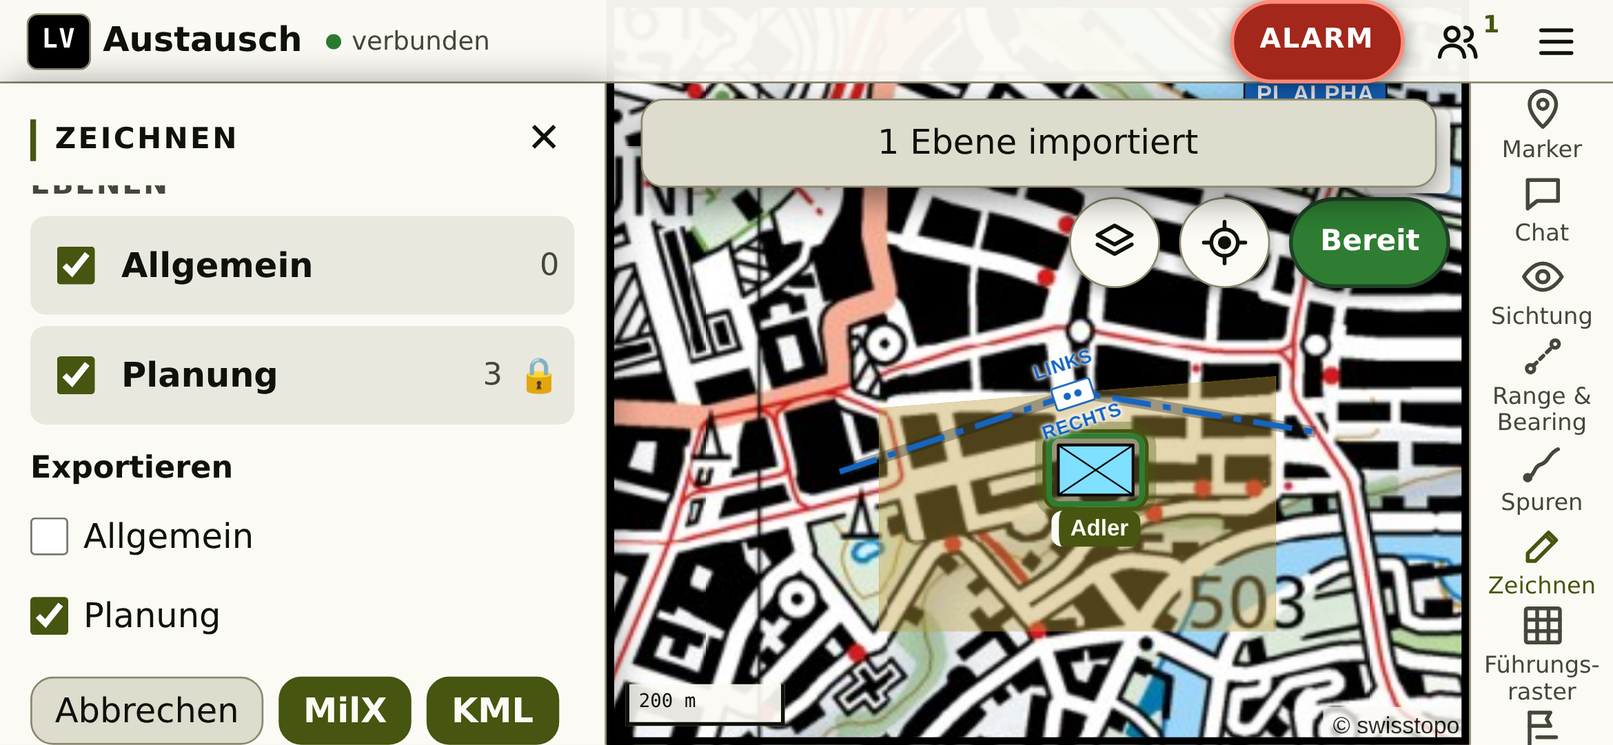
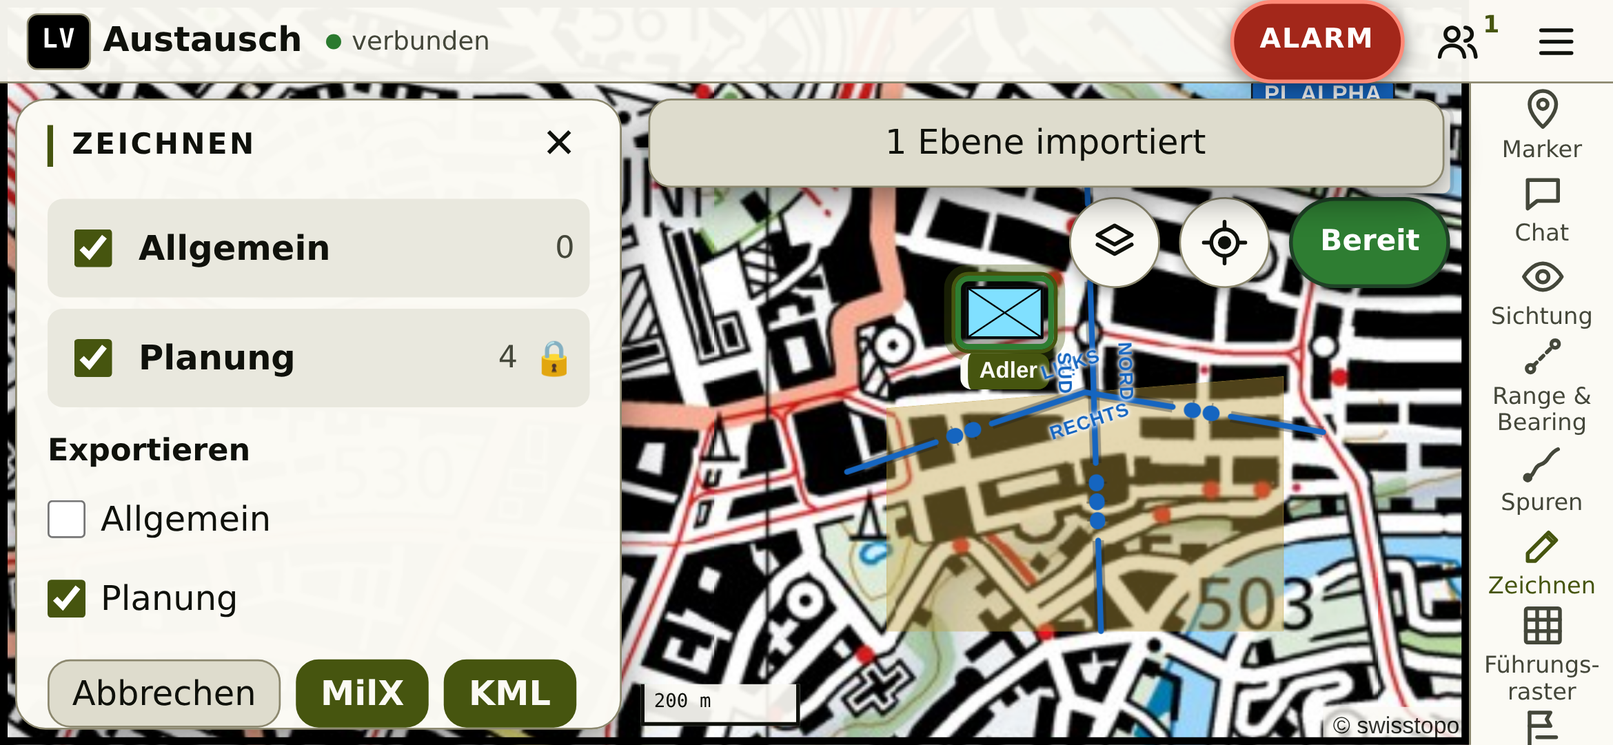
docs: MilX-Nachbesserungen – Entscheide Juan, Spec v8, Testzahlen, Mutationsnachweis, Bilder
README-Entscheidungslog «MilX/KML-Import (01.11.)» und Spec v8 mit Juans
Entscheiden zur Grenzlinie und zu den Ebenen für alle (wörtlich), Export
aus der Whitelist, Punktgrenzen, offene Punkte bereinigt. Testzahlen
(220 / 48 / 3948, E2E 119 in 14 Dateien), Mutationsnachweis 14/14.
Bilder mit erfundenen Daten: v8-grenze-quer, v8-grenze-juan,
v8-ebenen-beobachter, v8-import-* und v8-export neu.

Claude-Session: https://claude.ai/code/session_01Fo5QxxrixuCWEFZHSUx93F

Changed region(s): [[0.0, 0.0916, 0.9047, 1.0], [0.7799, 0.0916, 0.9047, 0.2442], [0.7175, 0.2442, 0.8423, 0.2747]]

diff --git a/docs/spec.md b/docs/spec.md
@@ -766,8 +766,8 @@ Ebenen aus dem Führungssystem (gs-soft MilX) und aus KML übernehmen und wieder
 - **Vorschau:** vor dem Übernehmen je Layer die Zeichen nach Art («3 × Phasenlinie · 4 × Grenze»), nicht abbildbare benannt (Code, Kürzel, Name), vereinfachte Linien gezählt; dann «Importieren». Danach zeigt die Karte das Importierte (neben dem offenen Panel).
 - **Export gleich mit:** jedes Mitglied (wie Ereignisliste, O15), Auswahl der Ebenen (Vorgabe: alle sichtbaren), Knopf «MilX» oder «KML». MilX: alle gewählten Ebenen in einer `.milxlyz`, LV03 wie die Quelle. KML: eine Datei je Ebene (Name = Ebene), mehrere als ZIP.
 - **Zusatzzeichen** (`XE` = «9SCHT…»): Juan: «weiss nicht was es umfasst..»; ein öffentlicher Katalog fehlt (Recherche) → als Linie bzw. Fläche in ruhigem Blaugrau, beschriftet mit `T`, sonst dem Kürzel.
-- **Originalcode bleibt:** jede importierte Zeichnung trägt ihre Symbol-XML unverändert in `milx`; der Export gibt sie zurück, eine spätere echte Darstellung braucht keinen Neuimport.
-- **Ort:** Import/Export unten im Ebenen-Panel (Zeichnen › Ebenen; am Handy unter den Ebenen). Android: Dateiauswahl über `<input type="file">` (Capacitor-Dateiwahl, in der App ohne `accept`, weil Android `.milxly` nicht kennt und sonst alle MilX-Dateien ausblendet), Speichern/Teilen über die bestehende Brücke `LagebildDatei.teile` wie das Raster-PDF. Keine neue APK nötig.
+- **Originalcode bleibt:** jede importierte Zeichnung trägt ihre Symbol-XML unverändert in `milx`, eine spätere echte Darstellung braucht keinen Neuimport. Der Export baut daraus die Symbol-XML aus einer Whitelist neu auf (Code mit 15 erlaubten Zeichen, `Attribute` mit Text, `XM` nur mit `Line` Width/Color und `Fill` Color/Transparency): Kommentare, PIs, fremde Elemente und Attribute fallen weg, denn `milx` kann jedes Mitglied setzen.
+- **Ort:** Import/Export unten im Ebenen-Panel (Zeichnen › Ebenen; am Handy unter den Ebenen) und unter «Karte und Ebenen» (Gruppe «Zeichnen», für alle Rollen und Phasen, siehe Nachbesserungen). Android: Dateiauswahl über `<input type="file">` (Capacitor-Dateiwahl, in der App ohne `accept`, weil Android `.milxly` nicht kennt und sonst alle MilX-Dateien ausblendet), Speichern/Teilen über die bestehende Brücke `LagebildDatei.teile` wie das Raster-PDF. Keine neue APK nötig.
 
 ### Zuordnung (`client/src/features/zeichnen/austausch/milx.ts`)
 | MilX-Code (`?` = Zugehörigkeit) | App | Import | Export eigener Zeichnungen |
@@ -782,7 +782,7 @@ Ebenen aus dem Führungssystem (gs-soft MilX) und aus KML übernehmen und wieder
 | übrige Arten (Linie, Pfeil, Kreis …) ohne `milx` | – | – | fehlen im MilX (Dialog nennt sie), im KML enthalten |
 
 - **Farbe nach Zugehörigkeit** (2. Stelle): Feind (H, S, J, K) rot, neutral grün, unbekannt gelb, sonst (eigene) blau.
-- **Grenze wie im Quell-Tool:** Stufe (APP-6A, z.B. C = ●●) im weissen Kästchen auf der Linienmitte, die beiden Namen je auf einer Seite entlang der Linie, klein in Versalien in Linienfarbe; gilt auch für eigene Grenzen (Eigenschaften: «Name links», «Name rechts», «Stufe»).
+- **Grenze wie im Quell-Tool (Juan, Nachbesserungen):** durchgezogen, mit Stufe alle ~160 px (zoomunabhängig, Bildschirm-px) unterbrochen; in jeder Lücke das Verbandszeichen der Stufe (APP-6A Stelle 12: A Ø, B ●, C ●●, D ●●●, E I, F II, G III, H X …) in Linienfarbe ohne Kästchen, gezeichnet als Geometrie (Punkte Ø 8 px, Striche), Lücke = Zeichen + je 4 px Rand. Ohne Stufe einfach durchgezogen (vorher Strich-Punkt). Die beiden Namen je auf einer Seite entlang der Linie, klein in Versalien in Linienfarbe; nur «rechts» bleibt rechts. Gilt auch für eigene Grenzen (Eigenschaften: «Name links», «Name rechts», «Stufe»).
 - **Flächen ohne Umriss:** neue Strichart `keiner` (nur mit Füllung wählbar, «Ohne»).
 - **KML:** militärische Zeichen über ExtendedData `App6aXmlTxt` (FeatureTypeCode MILSYM) mit derselben Zuordnung; freie Zeichnungen (DRWING) mit `ColorCode`/`CanvasFillColorCode` (rgba) und `WidthQty`; sonst `<Style>` (aabbggrr). Export schreibt beides, dazu `App6aXmlTxt`, wo ein Code bekannt ist; Text als Punkt, Kreis/Rechteck als Polygon.
 - **Rundreise:** Import → Export → Import ergibt dieselben Zeichnungen (MilX und KML, Test). Geänderte Namen und Stufe einer importierten Zeichnung gehen in ihren Originalcode ein, alles andere daran bleibt.
@@ -791,9 +791,10 @@ Ebenen aus dem Führungssystem (gs-soft MilX) und aus KML übernehmen und wieder
 - Datei höchstens 10 MB, auch entpackt (ZIP-Bombe bricht ab); ZIP nur Deflate/Stored, über die native `DecompressionStream`/`CompressionStream` (keine Abhängigkeit).
 - XML per `DOMParser`; Dateien mit DTD (`<!DOCTYPE`/`<!ENTITY`) werden abgelehnt.
 - Nur LV03 (`CoordSystemType` `SwissLv03`); anderes Koordinatensystem → Zeichen nicht abbildbar. Umrechnung mit proj4 (dieselbe LV03-Definition wie die Koordinatenanzeige, hin und zurück < 1 cm).
-- Punkte je Art wie beim Zeichnen (`PUNKTE_JE_ART`): mehr → Douglas-Peucker bis zur Grenze (Vorschau zählt «vereinfacht»), weniger → nicht abbildbar. Schlusspunkt von Ringen fällt weg, Zeichnungen (`G.9.*`) bekommen ihn im Export zurück.
+- Punkte je Art wie beim Zeichnen (`PUNKTE_JE_ART`): mehr → Douglas-Peucker bis zur Grenze (Vorschau zählt «vereinfacht»), weniger → nicht abbildbar. Linien über 50 000 Punkte und Arten mit höchstens zwei Punkten (Text) werden nicht vereinfacht, sondern sind nicht abbildbar; ein KML-`<Point>` nimmt nur das erste Tupel. Schlusspunkt von Ringen fällt weg, Zeichnungen (`G.9.*`) bekommen ihn im Export zurück.
+- Export: Steuerzeichen, die XML 1.0 nicht erlaubt (U+0000–U+0008, U+000B, U+000C, U+000E–U+001F, U+FFFE, U+FFFF), fallen weg. Kaputte ZIP-Daten melden «Datei beschädigt oder kein gültiges ZIP».
 - Was der Vertrag nicht annimmt (Koordinaten ausserhalb, zu lange Symbol-XML > 2000 Zeichen), ist nicht abbildbar.
-- Die Mission muss alles fassen (50 Ebenen, 5000 Zeichnungen, 10 MB Zeichnungsdaten): sonst kein Import, Grund in der Vorschau. Gesendet wird je Layer `ebene.neu {id, name, import: true}`, dann `zeichnung.neu` in Stücken; bricht ein Stück ab, bleibt das Bisherige («Import unvollständig»).
+- Die Mission muss alles fassen (50 Ebenen, 5000 Zeichnungen, 10 MB Zeichnungsdaten): sonst kein Import, Grund in der Vorschau. Gesendet wird je Layer `ebene.neu {id, name, import: true}`, dann `zeichnung.neu` in Stücken; bricht ein Stück ab, bleibt das Bisherige («Import unvollständig»). Teilnehmer und Beobachter lehnt der Server mit «Nur für Leitung und Gruppenführer» ab.
 
 ### Vertrag (`shared/protocol.ts`)
 - `Zeichnung.milx?` (Symbol-XML, ≤ 2000 Zeichen, beginnt mit `<Symbol`), `Zeichnung.stufe?` (`Stufe` A–M), `Stil.strich` + `keiner`.
@@ -801,11 +802,14 @@ Ebenen aus dem Führungssystem (gs-soft MilX) und aus KML übernehmen und wieder
 - `PROTOKOLL_VERSION` bleibt 2: ältere Stände ignorieren die neuen Felder; eine Zeichnung, die ein älterer Stand ändert, verliert `milx`/`stufe`.
 
 ### Offene Punkte
-- **Grenzlinie:** Das Quell-Tool zeichnet Grenzen durchgezogen, die App seit Spec v2 Strich-Punkt. Umstellen ist eine Zeile (`darstellung.ts`), betrifft aber alle Grenzen → Juan fragen.
 - **MilX-Export ungeprüft in MilX:** kein MilX hier. `SourceSystemRef` lässt der Export weg; `MssLibraryVersionTag` wie in der Quelle. Erst ein Import in MilX zeigt, ob das reicht.
-- **Beobachter und Phase AN** sehen das Zeichnen-Panel nicht und können darum nicht exportieren (Entscheid «jedes Mitglied»): bei Bedarf Export zusätzlich in die Wiedergabe (AN) legen.
 - Stiländerungen an importierten `G.9.AP`-Flächen gehen nicht in den MilX-Originalcode (nur Namen und Stufe); KML hat sie.
 - Eigene schwarze Umrisse mit Füllung kommen nach MilX/KML und zurück ohne Umriss an (Regel «schwarz + Füllung = ohne Umriss»).
 - Deckkraft derselben Fläche: aus MilX 0.41, aus KML 0.42 (Quelle rechnet anders); unsichtbar.
-- Rückgängig gibt es für den Import nicht; die Leitung löscht eine falsch importierte Ebene samt Zeichnungen.
-- Bilder (erfundene Daten): `docs/screens/v8-import-vorschau.png`, `v8-import-ebene.png`, `v8-export.png`.
+- Rückgängig gibt es für den Import nicht; die Leitung löscht eine falsch importierte Ebene samt Zeichnungen. Ein Gruppenführer kann eine (halb) importierte Ebene nicht löschen, nur ihre Zeichnungen (Regel «Ebenen löschen nur Leitung» bleibt).
+- Bilder (erfundene Daten): `docs/screens/v8-import-vorschau.png`, `v8-import-ebene.png`, `v8-export.png`, Grenzen mit ●● und ●●● `v8-grenze-quer.png` (851×393) und `v8-grenze-juan.png` (891×411 @3.5, Klein), Beobachter unter «Karte und Ebenen» `v8-ebenen-beobachter.png`.
+- ponytail: Die Verbandszeichen haben feste Grössen (Punkt Ø 8 px), unabhängig von der Strichstärke; bei sehr dicken Grenzen bei Bedarf mitwachsen lassen.
+
+### Nachbesserungen nach dem Gate (01.11., Entscheide Juan)
+- **Grenzlinie.** Juan: «die Linien logik ist gezogen, die darstellung enthält die Verbandzeichen, eine grenzlinie zwischen zügen zeigt das Zugsymbol. (3 punkte) etc. das ist aber dann eine form von gestrichelter linie nicht ein symboly mit hintergrund». Umgesetzt wie oben unter «Grenze wie im Quell-Tool»: Lücken mit dem Verbandszeichen statt Kästchen, ohne Stufe durchgezogen; für importierte und eigene Grenzen (`darstellung.ts`, `geometrie.ts` `unterbrochen`).
+- **Ebenen für alle.** Juan: «Alle Layer sind für alle Sichtbar und ein und ausschaltbar. wenn einer ein LAyer ergänzt ist es automatisch für alle ergänzt. es ist an die mission gekoppelt». Umgesetzt: unter «Karte und Ebenen» die Gruppe «Zeichnen» mit einem Schalter je Ebene der Mission (pro Gerät gemerkt, wie im Zeichnen-Panel) und Import/Export darunter – für alle Rollen in allen Phasen (Feature-Haken `ebenen` und `EbenenZusatz`). Import bleibt Leitung + Gruppenführer, Ebenen anlegen/sperren/löschen unverändert. Neue Ebenen anderer kamen schon per Delta (`ebene`) bei allen an, auch beim Beobachter (E2E bestätigt).

diff --git a/docs/tests.md b/docs/tests.md
@@ -14,9 +14,9 @@ Tabelle: [tests-mutationen.md](tests-mutationen.md). Vorgehen: exakte Textersetz
 Test rot? → Datei wiederherstellen. Dabei geschärft: Chat-Snapshot-Filter für Nicht-Empfänger, Pfadprüfung des
 Client-Verzeichnisses (`..` kodiert, sonst normalisiert die URL), Code-erneuern-Broadcast, labels-Hindernis, rb-Schlüssel.
 
-**Zahlen (31.10.2026):** 483 Tests / 45 Dateien / 4639 Zeilen → **191 Tests / 45 Dateien / 3382 Zeilen**; nach der Taufe-Überarbeitung (31.10.) **194 Tests / 45 Dateien / 3415 Zeilen** (+3: Naht geteilter Kacheln, mehrteilige Gebäude, Selbstüberschneidung); nach Gerätekennung und Rollen (01.11.) **205 Tests / 46 Dateien / 3625 Zeilen** (+11: Reducer-Rollen 6, Gerätenachweis, Wiederbeitritt, Challenges, Migration Spec v7, Rollen live). Nach den Gate-Auflagen Rollen (01.11.) **207 Tests / 46 Dateien / 3674 Zeilen** (+2: Herabstufen auf Beobachter beendet Aufträge, Wiederbeitritt schliesst die alte Verbindung; Tabelle Wiederbeitritt und Meldungs-Sichtbarkeit geschärft). Nach dem Menü (01.11.) **211 Tests / 47 Dateien / 3737 Zeilen** (+4: Token-Regel nach 4005/«beendet», Fähnchen-Ort aus Zielobjekten, Auffächern, Missionen-Abgleich; Aufräumen behält alle Missionen des Geräts). Panels quer (01.11.): Unit-Tests unverändert (**211 / 47**); E2E +1 Layout-Test `e2e/quer-layout.e2e.ts` «Panel: Kopf und ✕ ganz sichtbar, ✕ schliesst» (läuft in `quer` und `quer-gross`) → **117 E2E-Läufe in 13 Dateien** über alle Projekte (Stand nach Merge von main 9dd5c0a, kompletter Lauf grün); Mutationsnachweis 4/4 in [tests-mutationen.md](tests-mutationen.md) (Abschnitt «Panels quer»). Nach MilX/KML (01.11., Spec v8) **220 Tests / 48 Dateien / 3912 Zeilen** (+9: Import-Rechte im Reducer, LV03-Rückweg, Grenze mit Stufe und Seitennamen, MilX lesen, KML lesen = MilX, Punktgrenzen, Rundreise MilX/KML mit geänderten Namen, Codes eigener Zeichnungen, ZIP).
+**Zahlen (31.10.2026):** 483 Tests / 45 Dateien / 4639 Zeilen → **191 Tests / 45 Dateien / 3382 Zeilen**; nach der Taufe-Überarbeitung (31.10.) **194 Tests / 45 Dateien / 3415 Zeilen** (+3: Naht geteilter Kacheln, mehrteilige Gebäude, Selbstüberschneidung); nach Gerätekennung und Rollen (01.11.) **205 Tests / 46 Dateien / 3625 Zeilen** (+11: Reducer-Rollen 6, Gerätenachweis, Wiederbeitritt, Challenges, Migration Spec v7, Rollen live). Nach den Gate-Auflagen Rollen (01.11.) **207 Tests / 46 Dateien / 3674 Zeilen** (+2: Herabstufen auf Beobachter beendet Aufträge, Wiederbeitritt schliesst die alte Verbindung; Tabelle Wiederbeitritt und Meldungs-Sichtbarkeit geschärft). Nach dem Menü (01.11.) **211 Tests / 47 Dateien / 3737 Zeilen** (+4: Token-Regel nach 4005/«beendet», Fähnchen-Ort aus Zielobjekten, Auffächern, Missionen-Abgleich; Aufräumen behält alle Missionen des Geräts). Panels quer (01.11.): Unit-Tests unverändert (**211 / 47**); E2E +1 Layout-Test `e2e/quer-layout.e2e.ts` «Panel: Kopf und ✕ ganz sichtbar, ✕ schliesst» (läuft in `quer` und `quer-gross`) → **117 E2E-Läufe in 13 Dateien** über alle Projekte (Stand nach Merge von main 9dd5c0a, kompletter Lauf grün); Mutationsnachweis 4/4 in [tests-mutationen.md](tests-mutationen.md) (Abschnitt «Panels quer»). Nach MilX/KML (01.11., Spec v8) **220 Tests / 48 Dateien / 3912 Zeilen** (+9: Import-Rechte im Reducer, LV03-Rückweg, Grenze mit Stufe und Seitennamen, MilX lesen, KML lesen = MilX, Punktgrenzen, Rundreise MilX/KML mit geänderten Namen, Codes eigener Zeichnungen, ZIP). Nach den MilX-Nachbesserungen (01.11., Gate + Juans Entscheide) **220 Tests / 48 Dateien / 3948 Zeilen** (keine neuen `it`s, bestehende geschärft: Text mit 2 Punkten (Endlosschleife), Linien über 50 000 Punkten, KML-Point erstes Tupel, Export aus der Whitelist, Steuerzeichen, Grenze nur mit T1, kaputtes ZIP, Grenze durchgezogen mit Verbandszeichen in den Lücken, Import-Meldung im Reducer); Mutationen 14/14 rot in [tests-mutationen.md](tests-mutationen.md) «Nachbesserungen nach dem Gate».
 
-**E2E (Playwright, 01.11.2026, nach den Nachbesserungen Menü):** 115 Läufe in drei Projekten (quer, quer-gross, hoch), alle grün; `menu.e2e.ts` hat 5 Tests (+2 neu: «App-Start immer im Menü», «Missionswechsel setzt die Features zurück»; «Token-Regel» deckt jetzt auch ein unterbrochenes Warten ab, «Beitreten mit dem Code» hält die Antwort per `page.route` zurück). Seit dem App-Start im Menü gehen alle E2E, die per `goto('/')` oder `reload()` in eine Mission wollen, über `indieMission()` (`e2e/hilfen.ts`). Unit-Tests unverändert (211 / 47 Dateien). Mutationen: [tests-mutationen.md](tests-mutationen.md) «Menü».
+**E2E (Playwright, 01.11.2026, nach den Nachbesserungen Menü):** 115 Läufe in drei Projekten (quer, quer-gross, hoch), alle grün; `menu.e2e.ts` hat 5 Tests (+2 neu: «App-Start immer im Menü», «Missionswechsel setzt die Features zurück»; «Token-Regel» deckt jetzt auch ein unterbrochenes Warten ab, «Beitreten mit dem Code» hält die Antwort per `page.route` zurück). Seit dem App-Start im Menü gehen alle E2E, die per `goto('/')` oder `reload()` in eine Mission wollen, über `indieMission()` (`e2e/hilfen.ts`). Unit-Tests unverändert (211 / 47 Dateien). Mutationen: [tests-mutationen.md](tests-mutationen.md) «Menü». Nach den MilX-Nachbesserungen (01.11.): `austausch.e2e.ts` +1 «Beobachter auf Juans Handy» (891×411 @3.5, Klein: Ebenen der Mission unter «Karte und Ebenen» schalten, neue Ebene der Leitung erscheint per Delta, KML-Export, kein Import) → **119 E2E-Läufe in 14 Dateien** über alle Projekte, kompletter Lauf grün (`PW_PORT=8911`; ein erster Lauf parallel zu Vitest hatte `offline.e2e.ts` «Rechteck aufziehen …» rot – Doppelklick-Zoom unter Last, allein und im zweiten kompletten Lauf grün).
 
 ## Was wo getestet wird und warum
 
@@ -29,7 +29,7 @@ Client-Verzeichnisses (`..` kodiert, sonst normalisiert die URL), Code-erneuern-
 | Server Vertrag/Daten | zeichnen, taufe, raster | 11 | Eigene Refinements des Vertrags (Punktzahl je Art, radiusM, Taufring ≥ 4, stoss < 360, Rasterausdehnung, 100 je Nachricht), Vorgabelisten ohne NATO-Wörter, Grössenbudgets je Lage, Snapshot/Export der Einträge. |
 | Client lib | coords, coords.parse, webUpdate, sonne, labels, appVersion, umgebung, speicher, missionen | 34 | Koordinaten-Parsing aller sechs Formate gegen Referenzpunkte und Roundtrip; LV95/MGRS-Referenz, LV03-Rückweg (MilX), Promille, Sendelogik, Frische; Live-Update-Siegel (Signatur, Downgrade, SHA-256, fremder Schlüssel, nur https, nie ohne Antippen aktivieren); fester Server der App; Aufräumen nur Schlüssel verlassener Lagen; Menü: Token-Regel nach Wiederbeitritt (4005) und «beendet» (nie mit dem verworfenen Token verbinden), Fähnchen-Ort aus Zielobjekten, Auffächern ohne Überlappung in der freien Karte. |
 | Client raster/offline | druck, beschriftung, kacheln, laden | 21 | PDF-Raster (runder Massstab, Blattgeometrie umkehrbar, Felder ohne Überlappung, Kachelplan trifft Rahmenecke, gültige xref), Raster-Köpfe auf der Karte; Offline-Gebiete (Zoomgrenzen, Kachelzahl, URL↔Kachel, Referenzzählung beim Löschen, 60-Tage-Ablauf), Lader (einmal je Kachel, Wiederaufnahme, Netz weg, 404/503, Drossel). |
-| Client features | zeichnen (5), taufe (3), bloodhound, chat, sichtung, leitung, spuren, marker, wiedergabe (3), rangebearing, status, alarm, uiSkala | 77 | MilX/KML (Zuordnung, Farben $AABBGGRR/rgba/aabbggrr, LV03, Zusatzzeichen, nicht abbildbar, DTD abgelehnt, Punktgrenzen, Rundreise, Codes eigener Zeichnungen, ZIP mit CRC und Bombengrenze), Grenze (Stufe, Namen beidseits, nie kopfüber), taktische Zeichen (Pfeilkopf-Regression 30.10., Sperre, Räume), Geometrie-Randfälle, Undo/Redo inkl. Ersteller und Stückelung unter MAX_NACHRICHT, Vektorkachel-Geometrie über Kachelgrenzen (auch die von MapLibre geteilten z15/z16-Kacheln, Regression «schräge Fassade»), Gebäudeteile vereinen, Selbstüberschneidung gezeichneter Flächen, Fassadenfarben, Tempo-Glättung, Chat-Kanäle/Ungelesen, SALUTE-Chips→Vertrag, Dateiname ohne Pfad, Spuren, Ereignisliste nur LV mit Bloodhound-Sichtbarkeit und CSV-Formel-Schutz, Wiedergabe-Zeitachse, PDF-Gerüst, R&B-Persistenz, Kontrastfarbe, UI-Skalierung. |
+| Client features | zeichnen (5), taufe (3), bloodhound, chat, sichtung, leitung, spuren, marker, wiedergabe (3), rangebearing, status, alarm, uiSkala | 77 | MilX/KML (Zuordnung, Farben $AABBGGRR/rgba/aabbggrr, LV03, Zusatzzeichen, nicht abbildbar, DTD abgelehnt, Punktgrenzen inkl. Endlosschleife und 50 000, Rundreise, Export aus der Whitelist ohne Steuerzeichen, Codes eigener Zeichnungen, ZIP mit CRC, Bombengrenze und deutscher Meldung), Grenze (durchgezogen, Lücken mit Verbandszeichen, Namen beidseits auch nur rechts, nie kopfüber), taktische Zeichen (Pfeilkopf-Regression 30.10., Sperre, Räume), Geometrie-Randfälle, Undo/Redo inkl. Ersteller und Stückelung unter MAX_NACHRICHT, Vektorkachel-Geometrie über Kachelgrenzen (auch die von MapLibre geteilten z15/z16-Kacheln, Regression «schräge Fassade»), Gebäudeteile vereinen, Selbstüberschneidung gezeichneter Flächen, Fassadenfarben, Tempo-Glättung, Chat-Kanäle/Ungelesen, SALUTE-Chips→Vertrag, Dateiname ohne Pfad, Spuren, Ereignisliste nur LV mit Bloodhound-Sichtbarkeit und CSV-Formel-Schutz, Wiedergabe-Zeitachse, PDF-Gerüst, R&B-Persistenz, Kontrastfarbe, UI-Skalierung. |
 
 ## Gestrichen
 

diff --git a/docs/tests-mutationen.md b/docs/tests-mutationen.md
@@ -1,7 +1,7 @@
 # Mutationsnachweis der Unit-Tests
 
 Je Zeile: eine gezielte Änderung am Produktivcode (Bedingung umgedreht, Prüfung entfernt, Grenzwert verschoben), der danach rote Test, Mutation zurückgenommen.
-Stand 2026-11-01: 317 von 318 Mutationen rot (37 aus Gerätekennung und Rollen, 10 aus den Gate-Auflagen Rollen, 17 aus dem Menü, 8 E2E-Mutationen aus den Nachbesserungen Menü, 4 aus Panels quer, 28 aus MilX/KML – davon eine bewusst grün, siehe dort); Stand 2026-10-31: 214 von 214 Mutationen rot (davon 7 aus der Taufe-Überarbeitung 31.10., von Hand). Erzeugt mit einem Runner-Skript (exakte Textersetzung, Testdatei laufen lassen, Datei wiederherstellen).
+Stand 2026-11-01: 331 von 332 Mutationen rot (37 aus Gerätekennung und Rollen, 10 aus den Gate-Auflagen Rollen, 17 aus dem Menü, 8 E2E-Mutationen aus den Nachbesserungen Menü, 4 aus Panels quer, 28 aus MilX/KML – davon eine bewusst grün, siehe dort –, 14 aus den MilX-Nachbesserungen nach dem Gate, eine davon «hängt»); Stand 2026-10-31: 214 von 214 Mutationen rot (davon 7 aus der Taufe-Überarbeitung 31.10., von Hand). Erzeugt mit einem Runner-Skript (exakte Textersetzung, Testdatei laufen lassen, Datei wiederherstellen).
 
 ## client/src/features/alarm/logik.test.ts
 
@@ -176,7 +176,7 @@ Stand 2026-11-01: 317 von 318 Mutationen rot (37 aus Gerätekennung und Rollen, 
 
 | Produktivcode | Mutation | roter Test | Ergebnis |
 |---|---|---|---|
-| `client/src/features/zeichnen/darstellung.ts:101` | `features.push(linie(ps, { ...basis, strich: 'strichpunkt' }));` → `features.push(linie(ps, { ...basis, stri` | Linienarten | rot |
+| `client/src/features/zeichnen/darstellung.ts` (Grenze) | `const voll: Props = { ...basis, strich: 'voll' };` → `strich: 'gestrichelt'` (seit 01.11. durchgezogen statt Strich-Punkt) | Linienarten (Grenze ohne Stufe durchgezogen) | rot |
 | `client/src/features/zeichnen/darstellung.ts:87` | `pfeil(achse(), l, 0.45 * l)` → `pfeil(achse(), l, 0)` | Spitze am letzten Punkt | rot |
 | `client/src/features/zeichnen/darstellung.ts:129` | `data.set([r, g, b, 200], i);` → `data.set([r, g, b, 255], i);` | Räume | rot |
 | `client/src/features/zeichnen/logik.ts:50` | `if (teil.farbe && s.fuellung === s.farbe) x.fuellung = teil.farbe;` → `if (false) x.fuellung = teil.farbe;` | Stil ändern | rot |
@@ -570,8 +570,8 @@ Ohne Test (kein Verhalten, das klein prüfbar ist, Projektregel «kein Test-Bloa
 | `austausch/kml.ts` (`vonKml`) | `aabbggrr` → als `aarrggbb` gelesen | KML = MilX (Linie Rot) | rot |
 | `austausch/milx.ts` (`passe`) | Vereinfachen aus (`if (true) return`) | Punktgrenzen | rot |
 | `austausch/milx.ts` (`ebeneAus`) | Vertragsprüfung `if (false) nicht.push` | Punktgrenzen (Koordinate ausserhalb) | rot |
-| `austausch/milx.ts` (`symbolExport`) | immer `z.milx` (Änderungen nicht eingesetzt) | Rundreise | rot |
-| `austausch/milx.ts` (`angepasst`) | Stufe nicht in den Code (`if (false) s.setAttribute`) | Rundreise | rot |
+| `austausch/milx.ts` (`symbolExport`) | unverändertes `z.milx` durchreichen (`if (!namen.length && aus.stufe === z.stufe) return z.milx!`, seit 01.11. Whitelist) | Rundreise (Kommentar, PI, fremdes Element bleiben) | rot |
+| `austausch/milx.ts` (`symbolExport`) | Stufe nicht in den Code (`if (aus.stufe !== z.stufe) code =` → `if (false) code =`) | Rundreise | rot |
 | `austausch/milx.ts` (`symbolFuer`) | `GFGPGLB----${stufe}---` → `GFGPGLB--------` | eigene Zeichnungen | rot |
 | `austausch/milx.ts` (`zuDollar`) | `$AABBGGRR` → `$AARRGGBB` | eigene Zeichnungen | rot |
 | `austausch/milx.ts` (`symbolFuer`) | `default: return null` → ein Code | eigene Zeichnungen (ohne Code fehlt) | rot |
@@ -580,9 +580,32 @@ Ohne Test (kein Verhalten, das klein prüfbar ist, Projektregel «kein Test-Bloa
 | `austausch/zip.ts` (`entpackeEine`) | Datenbeginn ohne Extrafeld-Länge des lokalen Kopfs | – | **grün**: weder eigene ZIPs noch Juans Beispiel haben ein Extrafeld. Bewusst kein Test (bräuchte ein fremdes ZIP als Fixture); die Länge wird gelesen, weil andere Packer (z.B. mit Zeitstempel-Feld) eines schreiben. |
 | `zeichnen/darstellung.ts` (Grenze) | Namen links/rechts vertauscht | Darstellung: Grenze | rot |
 | `zeichnen/geometrie.ts` (`mitteQuer`) | Schrift nicht aufgerichtet (`drehung: w`) | Darstellung: Grenze | rot |
-| `zeichnen/darstellung.ts` (`STUFE`) | C `●●` → `●` | Darstellung: Grenze | rot |
+| `zeichnen/darstellung.ts` (`STUFE`) | C `●●` → `●` | Darstellung: Grenze («6 Punkte erwartet, 3») | rot |
 
 Ohne Unit-Test (Oberfläche, E2E `e2e/austausch.e2e.ts`): Vorschau, Sperre der Leitungs-Ebene in der Liste, Beschriftungen auf der Karte, Download KML/MilX mit unverändertem Originalcode. Ohne Test: Fit auf das Importierte neben dem Panel, Knöpfe ins Bild scrollen, `accept` nur im Browser.
+
+### Nachbesserungen nach dem Gate (01.11.: R1, O1–O4, Nits, Juans Entscheide Grenzlinie und Ebenen für alle)
+
+Unit-Tests erweitert statt neu (220 Tests bleiben): «zu viele Punkte …», «Rundreise …», «MilX lesen», «ZIP», «Darstellung: Linienarten», «Darstellung: Grenze», «rechte: Import». E2E +1 in `e2e/austausch.e2e.ts` («Beobachter auf Juans Handy …», 891×411 @3.5, Klein). Runner wie oben (Unit: `timeout 40 npx vitest run <datei>`; E2E: `PW_PORT=8911 npx playwright test e2e/austausch.e2e.ts --project quer -g Beobachter`). 14 von 14 rot, dazu drei Zeilen oben neu belegt (Grenze durchgezogen, `symbolExport` zweimal, `STUFE`).
+
+| Produktivcode | Mutation | roter Test (erste Meldung) | Ergebnis |
+|---|---|---|---|
+| `austausch/milx.ts` (`passe`) | `if (max < 3 \|\| ps.length > MAX_PUNKTE_DATEI)` → `if (ps.length > MAX_PUNKTE_DATEI)` (R1) | «zu viele Punkte …»: Text mit 2 Punkten, Douglas-Peucker läuft endlos | **hängt** (Abbruch nach 40 s) = rot |
+| `austausch/milx.ts` (`passe`) | `\|\| ps.length > MAX_PUNKTE_DATEI` entfernt (O4) | «zu viele Punkte …»: `nicht` ohne «Linie mit 50001 Punkt(en)» | rot |
+| `austausch/kml.ts` (`placemark`) | `.slice(0, art === 'text' ? 1 : undefined)` entfernt | «zu viele Punkte …»: Point «Y» fehlt | rot |
+| `austausch/milx.ts` (`esc`) | Filter der Steuerzeichen entfernt (O2) | Rundreise: MilX enthält U+0001 | rot |
+| `austausch/milx.ts` (`symbolExport`) | `Line`/`Fill` ungefiltert serialisiert (O3) | Rundreise: `Dash="1"` bleibt | rot |
+| `austausch/milx.ts` (`ausSymbol`) | `grenzBezeichnung(t('T'), t('T1'))` → `[t('T'), t('T1')].filter(Boolean).join(' \| ')` | MilX lesen: `['RECHTS', '']` statt `['', 'RECHTS']` | rot |
+| `zeichnen/darstellung.ts` (`grenzNamen`) | am ersten «\|» → wieder `split(' \| ')` | Darstellung: Grenze (nur rechts landet links) | rot |
+| `austausch/zip.ts` (`entpackeEine`) | `\|\| e instanceof TypeError` entfernt | ZIP: Meldung leer statt «Datei beschädigt oder kein gültiges ZIP» | rot |
+| `zeichnen/darstellung.ts` (Grenze) | Lücke `(breite + 8 + s.breite)` → `(breite + s.breite)` | Darstellung: Grenze (Punkt zu nah am Linienende) | rot |
+| `zeichnen/darstellung.ts` (`PX`) | `verband: 160` → `250` | Darstellung: Grenze (3 statt 4 Stücke) | rot |
+| `zeichnen/darstellung.ts` (Grenze) | Punkte quer um 3 px versetzt | Darstellung: Grenze (Punkt nicht auf der Linie) | rot |
+| `shared/regeln/zeichnen.ts` (`ebene.neu`) | Meldung beim Import → wieder «Nur für die Leitung» | rechte: Import | rot |
+| `client/src/features/zeichnen/index.ts` | `ebenen:` → `ebenen2:` (keine Schalter unter «Karte und Ebenen») | E2E Beobachter: Schalter «Allgemein» fehlt | rot |
+| `client/src/components/EbenenListe.svelte` | `{#if f.EbenenZusatz}<f.EbenenZusatz />{/if}` entfernt | E2E Beobachter: «Exportieren …» fehlt | rot |
+
+Ohne Test: Lazy-Loading des PDF-Moduls (O1, belegt durch den Build ohne `INEFFECTIVE_DYNAMIC_IMPORT`), Kommentar in `importiere`, `.kmz` in der Meldung, Bildvergleich der Verbandszeichen (Unit-Test prüft Lücken, Lage und Anzahl; Aussehen per Bild `v8-grenze-*.png`).
 ## Panels quer (01.11., Juan: «das kreuz oben rechts funktioniert in 6 von 10 fällen nicht»)
 
 E2E `e2e/quer-layout.e2e.ts` «Panel: Kopf und ✕ ganz sichtbar, ✕ schliesst» (@layout; Projekt `quer` mit 851×393 und Juans

diff --git a/README.md b/README.md
@@ -111,5 +111,5 @@ Tests, die bewusst Hochformat, Tablet oder Desktop prüfen, setzen ihren Kontext
 | Menü-Layout V4 (01.11.) | Vier Prototypen quer (Branch `menu-layout`), Juan wählt **V4 «Karte als Menü»**: Menüspalte links, Panel rechts, Missionen als Fähnchen auf der Karte. Ort des Fähnchens: «dort wo das Zielobjekt ist» → Mitte aller Zielobjekte, ohne Zielobjekt letzter Ausschnitt des Geräts; nahe Fähnchen auffächern; alle Missionen gleich stark; Start mit allen Fähnchen im Bild. Gerätekennung/Rollen gehen zusammen mit dem Menü live (ein Update für alle Geräte). Details Spec v7 «Menü-Layout V4». |
 | Gate Rollen (01.11.) | Review-Gate `geraet-rollen`: APPROVE mit Auflagen. Juan: Wiederbeitritt behält die Rolle (Code gilt nur beim ersten Beitritt, sonst hebelt verlassen+neu beitreten jede Herabstufung aus); GF-Code als Generalschlüssel für Gruppen bewusst so festgehalten (Bedienschutz, entfällt mit dezentralen Missionen). Ohne Rückfrage behoben: alte Verbindung nach Wiederbeitritt schliessen, Aufträge enden beim Herabstufen auf Beobachter, Auftraggeber sieht Auftrags-Meldungen. |
 | App-Start (01.11.) | Review-Gate Menü, Frage an Juan: Start mit offener Mission direkt in die Karte oder ins Menü? Juan: «Immer ins Menü». → Die App startet (Neustart, Neuladen, Live-Update) immer im Menü mit allen Fähnchen; die offene Mission verbindet sofort im Hintergrund (Verbindung und Position laufen), in die Karte geht es mit «Zurück zur Mission». Ersetzt «Ist eine Mission offen, geht die App direkt hinein» aus Spec v7. |
-| MilX/KML-Import (01.11.) | Formate: «Alle drei» (.milxlyz, .milxly, .kml; KML-Ebene heisst wie die Datei). Rechte: «Leitung + Gruppenführer» – je Layer eine neue Ebene, die der Leitung gesperrt, die eines Gruppenführers offen; Vorschau mit Anzahl je Art und nicht abbildbaren Zeichen, dann «Importieren». Schweizer Zusatzzeichen (XE «9SCHT…»), Juan: «weiss nicht was es umfasst..» → Linie/Fläche in ruhiger Farbe mit Kürzel, Originalcode bleibt erhalten (kein öffentlicher Katalog, `docs/recherche/milx.md`). Export: «Gleich mit» – .milxlyz (LV03, Originalcode) und KML, für alle Mitglieder. Nachtrag nach Juans Foto aus dem Quell-Tool: Grenze mit Stufe im Kästchen und beiden Namen beidseits der Linie, Flächen ohne Umriss (Spec v8) |
+| MilX/KML-Import (01.11.) | Formate: «Alle drei» (.milxlyz, .milxly, .kml; KML-Ebene heisst wie die Datei). Rechte: «Leitung + Gruppenführer» – je Layer eine neue Ebene, die der Leitung gesperrt, die eines Gruppenführers offen; Vorschau mit Anzahl je Art und nicht abbildbaren Zeichen, dann «Importieren». Schweizer Zusatzzeichen (XE «9SCHT…»), Juan: «weiss nicht was es umfasst..» → Linie/Fläche in ruhiger Farbe mit Kürzel, Originalcode bleibt erhalten (kein öffentlicher Katalog, `docs/recherche/milx.md`). Export: «Gleich mit» – .milxlyz (LV03, Originalcode) und KML, für alle Mitglieder. Nachtrag nach Juans Foto aus dem Quell-Tool: Grenze mit Stufe im Kästchen und beiden Namen beidseits der Linie, Flächen ohne Umriss (Spec v8). Nach dem Gate: Grenzlinie, Juan: «die Linien logik ist gezogen, die darstellung enthält die Verbandzeichen, eine grenzlinie zwischen zügen zeigt das Zugsymbol. (3 punkte) etc. das ist aber dann eine form von gestrichelter linie nicht ein symboly mit hintergrund» → durchgezogen, in regelmässigen Abständen unterbrochen, in jeder Lücke das Verbandszeichen der Stufe in Linienfarbe ohne Kästchen, ohne Stufe einfach durchgezogen, Namen beidseits; gilt für alle Grenzen. Ebenen, Juan: «Alle Layer sind für alle Sichtbar und ein und ausschaltbar. wenn einer ein LAyer ergänzt ist es automatisch für alle ergänzt. es ist an die mission gekoppelt» → Ebenen-Schalter und Export für alle Rollen in allen Phasen unter «Karte und Ebenen»; Import bleibt Leitung + Gruppenführer, Ebenen anlegen/sperren/löschen unverändert (Spec v8) |
 | Panels quer (01.11.) | Juan (Handy, 1.0.191, quer, Tag, Daumen-Ränder): «hier ist die darstellung nicht sehr gelungen. links sieht das menu und die buttons daneben unfertig aus und nicht schön in der grössen aufteilung. zudem lässt sich das fenster teils nicht schliessen. das kreuz oben rechts funktioniert in 6 von 10 fällen nicht» → Ursache: die Panels der Daumen-Ränder begannen quer bei y = 0 statt unter dem Safe-Area-Einzug oben, Kopf und ✕ lagen halb unter der Statusleiste (klassisch lag das Panel links im Kamera-Einzug). Entscheid: **Panels wie das neue Menü** – quer schwebende, abgerundete Karten mit 8 px Abstand zu Rand, Safe-Area und Knopfspalte; die Karte läuft darunter und hinter der Knopfspalte durch (kein heller Streifen mehr), die Kartenmitte bleibt per MapLibre-Padding im freien Teil; ✕ immer ≥ 44 px. Bilder `docs/bilder/panel-quer/` |
